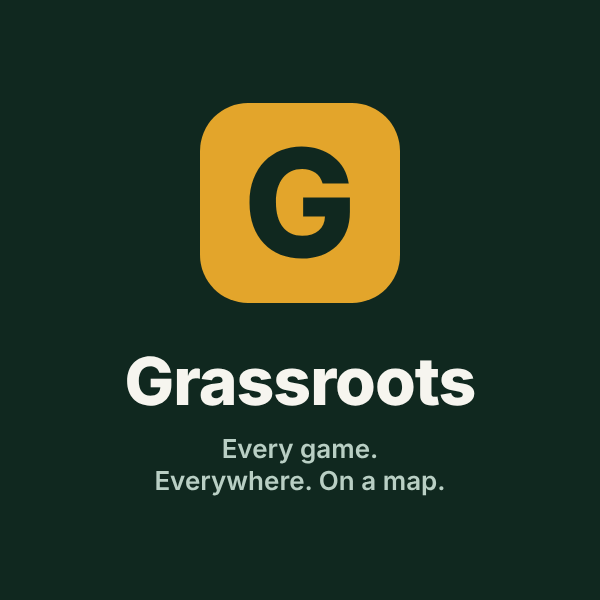
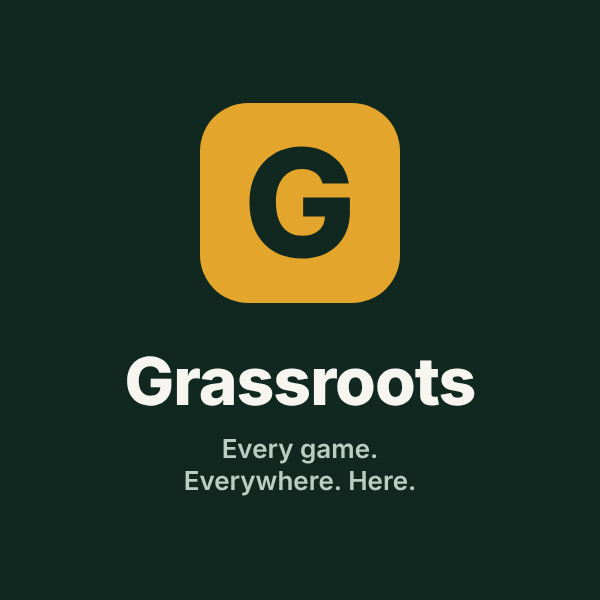
Tagline: Every game. Everywhere. Here.
Claude-Session: https://claude.ai/code/session_01KjCKqn7TdC12eqjPVW3bi6

Changed region(s): [[0.24, 0.78, 0.75, 0.84]]

diff --git a/utils/sharePage.ts b/utils/sharePage.ts
@@ -33,7 +33,7 @@ export interface Preview {
 /** What the chat app's preview shows. */
 export function previewFor(f: Fixture | null, state: PageState): Preview {
   if (!f || state === 'missing') {
-    return { title: 'Grassroots', description: 'Every game. Everywhere. On a map. Find sports fixtures near you.' };
+    return { title: 'Grassroots', description: 'Every game. Everywhere. Here. Find sports fixtures near you.' };
   }
   const when = irishParts(f.startsAt);
   const time = f.timeTbc ? 'time TBC' : when.time;
